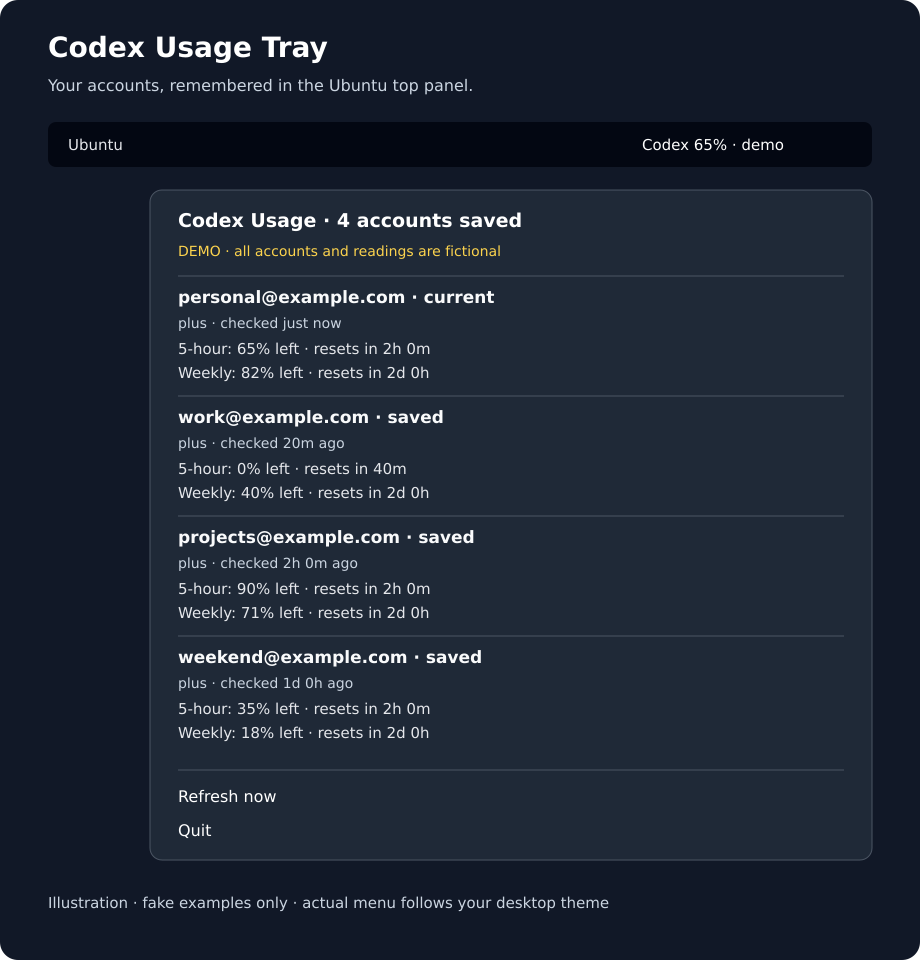
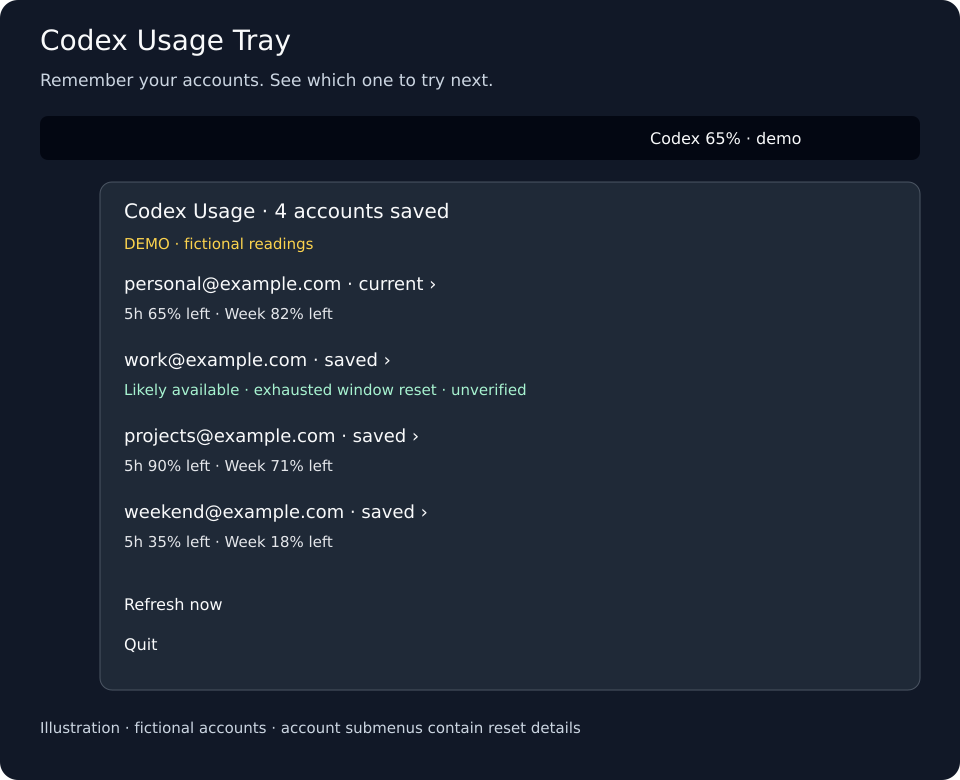
Show likely available Codex accounts after reset

diff --git a/tray.py b/tray.py
@@ -13,7 +13,7 @@ import subprocess
 import threading
 import time
 
-VERSION = '0.1.0'
+VERSION = '0.1.1'
 ROOT = Path(__file__).resolve().parent
 STATE = Path(os.environ.get('XDG_STATE_HOME', str(Path.home() / '.local/state'))) / 'codex-usage-tray'
 
@@ -137,10 +137,69 @@ def window_text(window, now):
     label = 'Weekly' if mins == 10080 else '5-hour' if mins == 300 else (f'{mins // 60:g}-hour' if mins and mins % 60 == 0 else f'{mins}m' if mins else 'Usage')
     remaining = max(0, min(100, 100 - float(window.get('usedPercent', 100))))
     reset = window.get('resetsAt')
+    if reset is not None and reset <= now:
+        return f'{label}: reset time passed · sign in and refresh to check usage'
     suffix = ''
     if reset:
         suffix = f' · resets in {duration(reset - now)}' if reset > now else ' · reset time passed; refresh needed'
     return f'{label}: {remaining:g}% left{suffix}'
+
+
+def needs_recheck(account, now):
+    for limit in account.get('limits', {}).values():
+        for field in ('primary', 'secondary'):
+            reset = (limit.get(field) or {}).get('resetsAt')
+            if reset is not None and reset <= now:
+                return True
+    return False
+
+
+def likely_available_after_reset(account, now):
+    expired_exhausted_window = False
+    for limit in account.get('limits', {}).values():
+        if limit.get('spendControlReached') is True:
+            return False
+        for field in ('primary', 'secondary'):
+            window = limit.get(field)
+            if not window:
+                continue
+            reset = window.get('resetsAt')
+            exhausted = float(window.get('usedPercent', 100)) >= 100
+            expired = reset is not None and reset <= now
+            if exhausted and not expired:
+                return False
+            if exhausted and expired:
+                expired_exhausted_window = True
+    return expired_exhausted_window
+
+
+def account_status(account, now):
+    if likely_available_after_reset(account, now):
+        return 'Likely available after reset · refresh to confirm'
+    if needs_recheck(account, now):
+        return 'Reset time passed · usage needs a fresh check'
+    if account.get('allowed') is False:
+        return 'Included usage blocked at last check'
+    if account.get('allowed') is True:
+        return 'Included usage available at last check'
+    return 'Included usage status unavailable'
+
+
+def account_summary(account, now):
+    if likely_available_after_reset(account, now):
+        return 'Likely available · exhausted window reset · unverified'
+    if needs_recheck(account, now):
+        return 'Reset time passed · sign in and refresh'
+    limit = account.get('limits', {}).get('codex') or next(iter(account.get('limits', {}).values()), {})
+    parts = []
+    for field, fallback in [('primary', 'Primary'), ('secondary', 'Secondary')]:
+        window = limit.get(field)
+        if window:
+            mins = window.get('windowDurationMins')
+            label = '5h' if mins == 300 else 'Week' if mins == 10080 else fallback
+            left = max(0, min(100, 100 - float(window.get('usedPercent', 100))))
+            parts.append(f'{label} {left:g}% left')
+    return ' · '.join(parts) or 'Usage unavailable'
 
 
 def demo_data(now=None):
@@ -189,8 +248,6 @@ class App:
         item = self.Gtk.MenuItem.new_with_label(label)
         if callback:
             item.connect('activate', lambda *_: callback())
-        else:
-            item.set_sensitive(False)
         menu.append(item)
         return item
 
@@ -203,30 +260,33 @@ class App:
         now = time.time()
         accounts = self.data['accounts']
         self.item(menu, f'Codex Usage · {len(accounts)} accounts saved')
-        self.item(menu, 'DEMO · all accounts and readings are fictional' if self.demo else 'Updates the signed-in account every minute')
+        self.item(menu, 'DEMO · fictional readings' if self.demo else 'Current account updates every minute')
         menu.append(self.Gtk.SeparatorMenuItem())
         if not accounts:
             self.item(menu, 'Waiting for your first account…')
-        for key, account in sorted(accounts.items(), key=lambda pair: (pair[0] != self.active, pair[1]['email'])):
+        for key, account in sorted(accounts.items(), key=lambda pair: (
+                pair[0] != self.active,
+                not likely_available_after_reset(pair[1], now),
+                pair[1]['email'])):
             current = key == self.active
             age = max(0, now - account['checked_at'])
             title = account['email'] + (' · current' if current else ' · saved')
             if account.get('workspace'):
                 title += ' · ' + account['workspace']
-            self.item(menu, title)
-            self.item(menu, f"  {account.get('plan') or 'Plan unknown'} · checked {duration(age)} ago")
-            if account.get('allowed') is False:
-                self.item(menu, '  Included usage blocked at last check')
-            elif account.get('allowed') is True:
-                self.item(menu, '  Included usage available at last check')
+            row = self.item(menu, title)
+            details = self.Gtk.Menu()
+            row.set_submenu(details)
+            self.item(menu, account_summary(account, now))
+            self.item(details, f"{account.get('plan') or 'Plan unknown'} · checked {duration(age)} ago")
+            self.item(details, account_status(account, now))
             for name, limit in account.get('limits', {}).items():
                 if len(account['limits']) > 1:
-                    self.item(menu, '  ' + (limit.get('limitName') or name))
+                    self.item(details, limit.get('limitName') or name)
                 for field in ['primary', 'secondary']:
                     if limit.get(field):
-                        self.item(menu, '  ' + window_text(limit[field], now))
+                        self.item(details, window_text(limit[field], now))
                 if not limit.get('primary') and not limit.get('secondary'):
-                    self.item(menu, '  Usage percentages unavailable')
+                    self.item(details, 'Usage percentages unavailable')
             menu.append(self.Gtk.SeparatorMenuItem())
         if self.error:
             self.item(menu, self.error)
@@ -243,7 +303,9 @@ class App:
         current = accounts.get(self.active)
         label = 'Codex'
         if current:
-            if current.get('allowed') is False:
+            if needs_recheck(current, now):
+                label = 'Codex · recheck'
+            elif current.get('allowed') is False:
                 label = 'Codex · blocked'
             else:
                 limit = current.get('limits', {}).get('codex') or next(iter(current.get('limits', {}).values()), {})

diff --git a/tests/test_tray.py b/tests/test_tray.py
@@ -12,8 +12,29 @@ class UsageTests(unittest.TestCase):
     def test_remaining_and_expired_reset(self):
         self.assertIn('30% left', tray.window_text({'usedPercent': 70, 'windowDurationMins': 300, 'resetsAt': 2000}, 1000))
         text = tray.window_text({'usedPercent': 100, 'windowDurationMins': 10080, 'resetsAt': 500}, 1000)
-        self.assertIn('0% left', text)
-        self.assertIn('refresh needed', text)
+        self.assertNotIn('0% left', text)
+        self.assertIn('sign in and refresh', text)
+
+    def test_expired_blocked_reading_becomes_unknown(self):
+        account = tray.demo_data(1000)['accounts']['demo-1']
+        self.assertIn('blocked', tray.account_status(account, 1000))
+        self.assertIn('Likely available', tray.account_status(account, 4000))
+        self.assertNotIn('blocked', tray.account_status(account, 4000))
+        self.assertNotIn('0% left', tray.account_summary(account, 4000))
+        self.assertIn('0% left', tray.account_summary(account, 1000))
+        self.assertFalse(account['allowed'])
+
+    def test_five_hour_reset_does_not_clear_weekly_limit(self):
+        account = tray.demo_data(1000)['accounts']['demo-1']
+        account['limits']['codex']['secondary']['usedPercent'] = 100
+        self.assertFalse(tray.likely_available_after_reset(account, 4000))
+        self.assertNotIn('Likely available', tray.account_summary(account, 4000))
+        self.assertTrue(tray.likely_available_after_reset(account, 200000))
+
+    def test_reset_does_not_clear_spend_controls(self):
+        account = tray.demo_data(1000)['accounts']['demo-1']
+        account['limits']['codex']['spendControlReached'] = True
+        self.assertFalse(tray.likely_available_after_reset(account, 4000))
 
     def test_account_change_is_not_saved_to_wrong_identity(self):
         a = {'account': {'type': 'chatgpt', 'email': 'one@example.com'}, 'userId': 'one'}

diff --git a/README.md b/README.md
@@ -12,12 +12,13 @@ Free, open-source, and local. Built after repeatedly switching accounts and forg
 
 - Shows remaining five-hour and weekly usage when those windows are provided by Codex.
 - Remembers accounts and workspaces as you sign into them.
+- Keeps the menu compact with a summary for each account. Open an account submenu for reset times and the last check time.
 - Refreshes the signed-in account every minute, with a manual **Refresh now** action.
 - Shows when each account was last checked, plus reset countdowns.
 - Runs in the system tray; no browser dashboard or extra account registration.
 - Uses your existing Codex sign-in through its local app-server interface.
 
-**Only the signed-in account refreshes. Other accounts show their last saved reading.** Sign into an account and refresh to verify its current allowance. A passed reset time is not treated as confirmed availability. This app does not switch accounts or increase usage limits.
+**Only the signed-in account refreshes. Other accounts show their last saved reading.** Sign into an account and refresh to verify its current allowance. After an exhausted usage window passes its reset time, the account is highlighted as **likely available** if its other saved windows have capacity. This is an estimate until that account is signed in and refreshed. A weekly limit that is still exhausted prevents the estimate. Other expired readings request a fresh check. This app does not switch accounts or increase usage limits.
 
 ## Compatibility
 

diff --git a/CHANGELOG.md b/CHANGELOG.md
@@ -1,5 +1,13 @@
 # Changelog
 
+## 0.1.1 — 2026-11-14
+
+- Highlight accounts likely to have capacity after an exhausted window resets, respecting saved weekly limits and spend-control blocks.
+- Replace expired percentages and blocked/available status with estimated availability or a fresh-check message.
+- Use readable menu text rather than disabled styling for usage details.
+- Move account details into submenus so Refresh and Quit remain easy to reach.
+- Remove the four-account counter limit from the original installed build.
+
 ## 0.1.0 — 2026-11-14
 
 Initial public beta.
